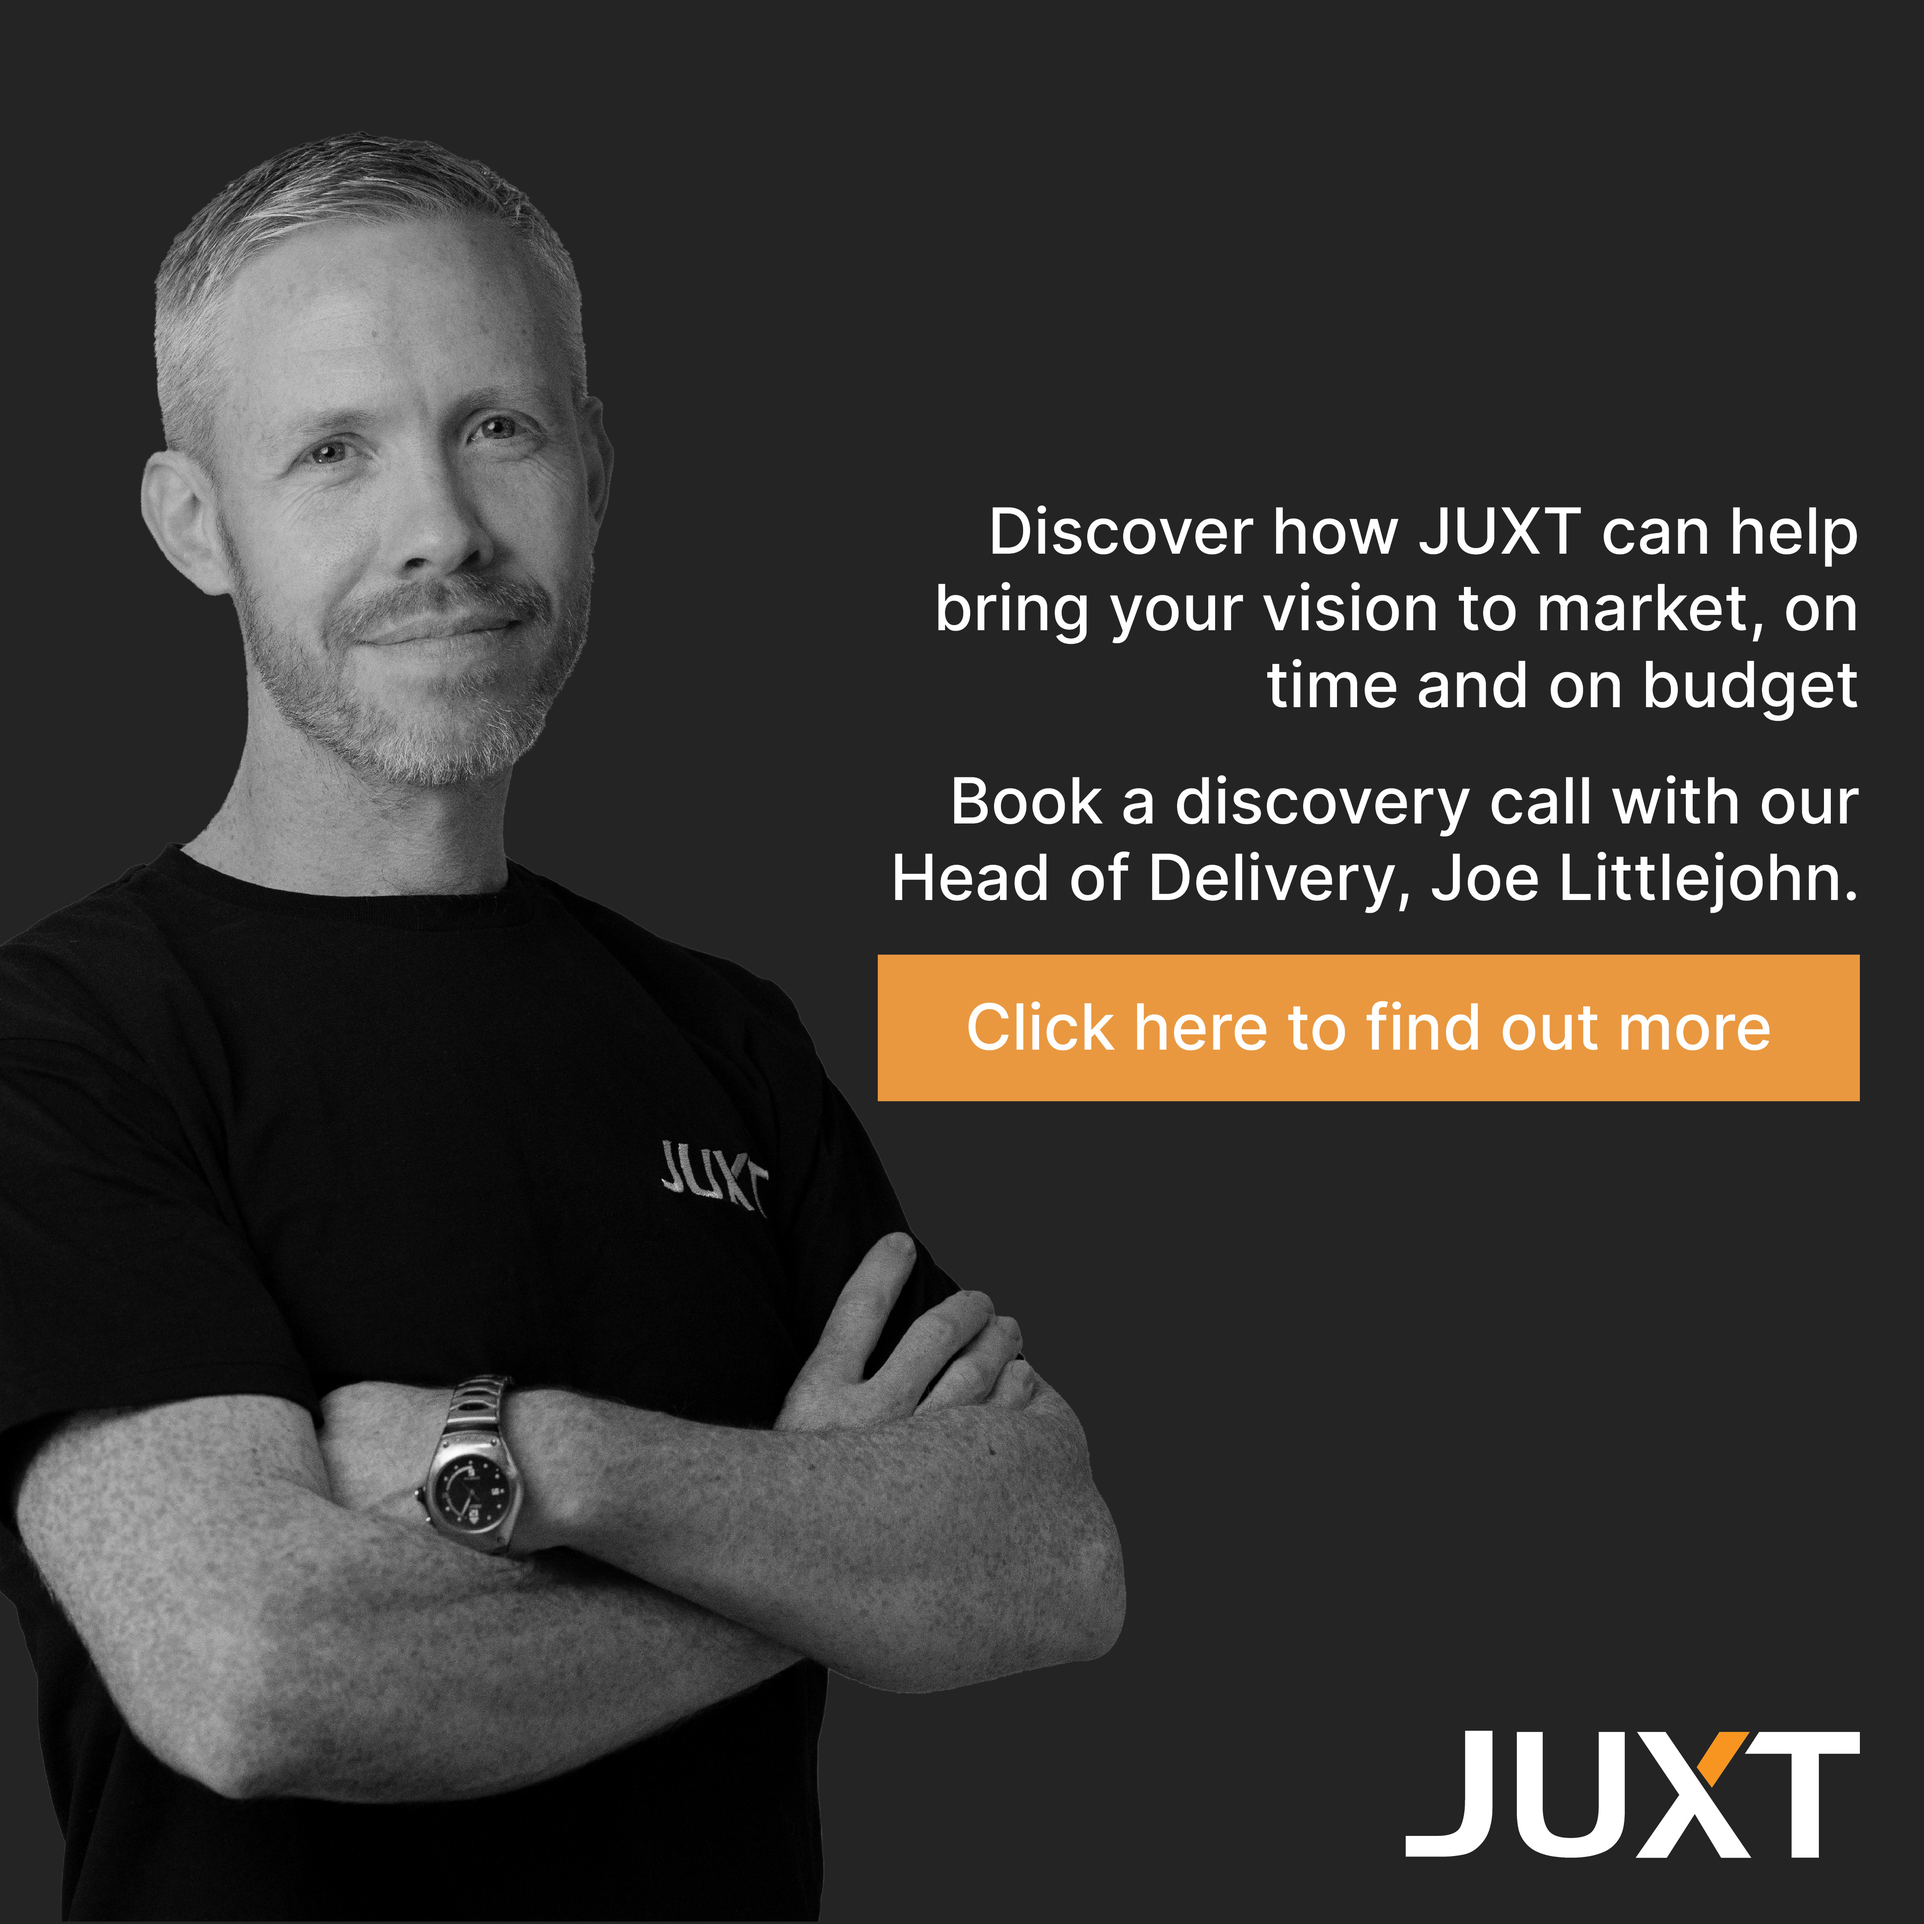
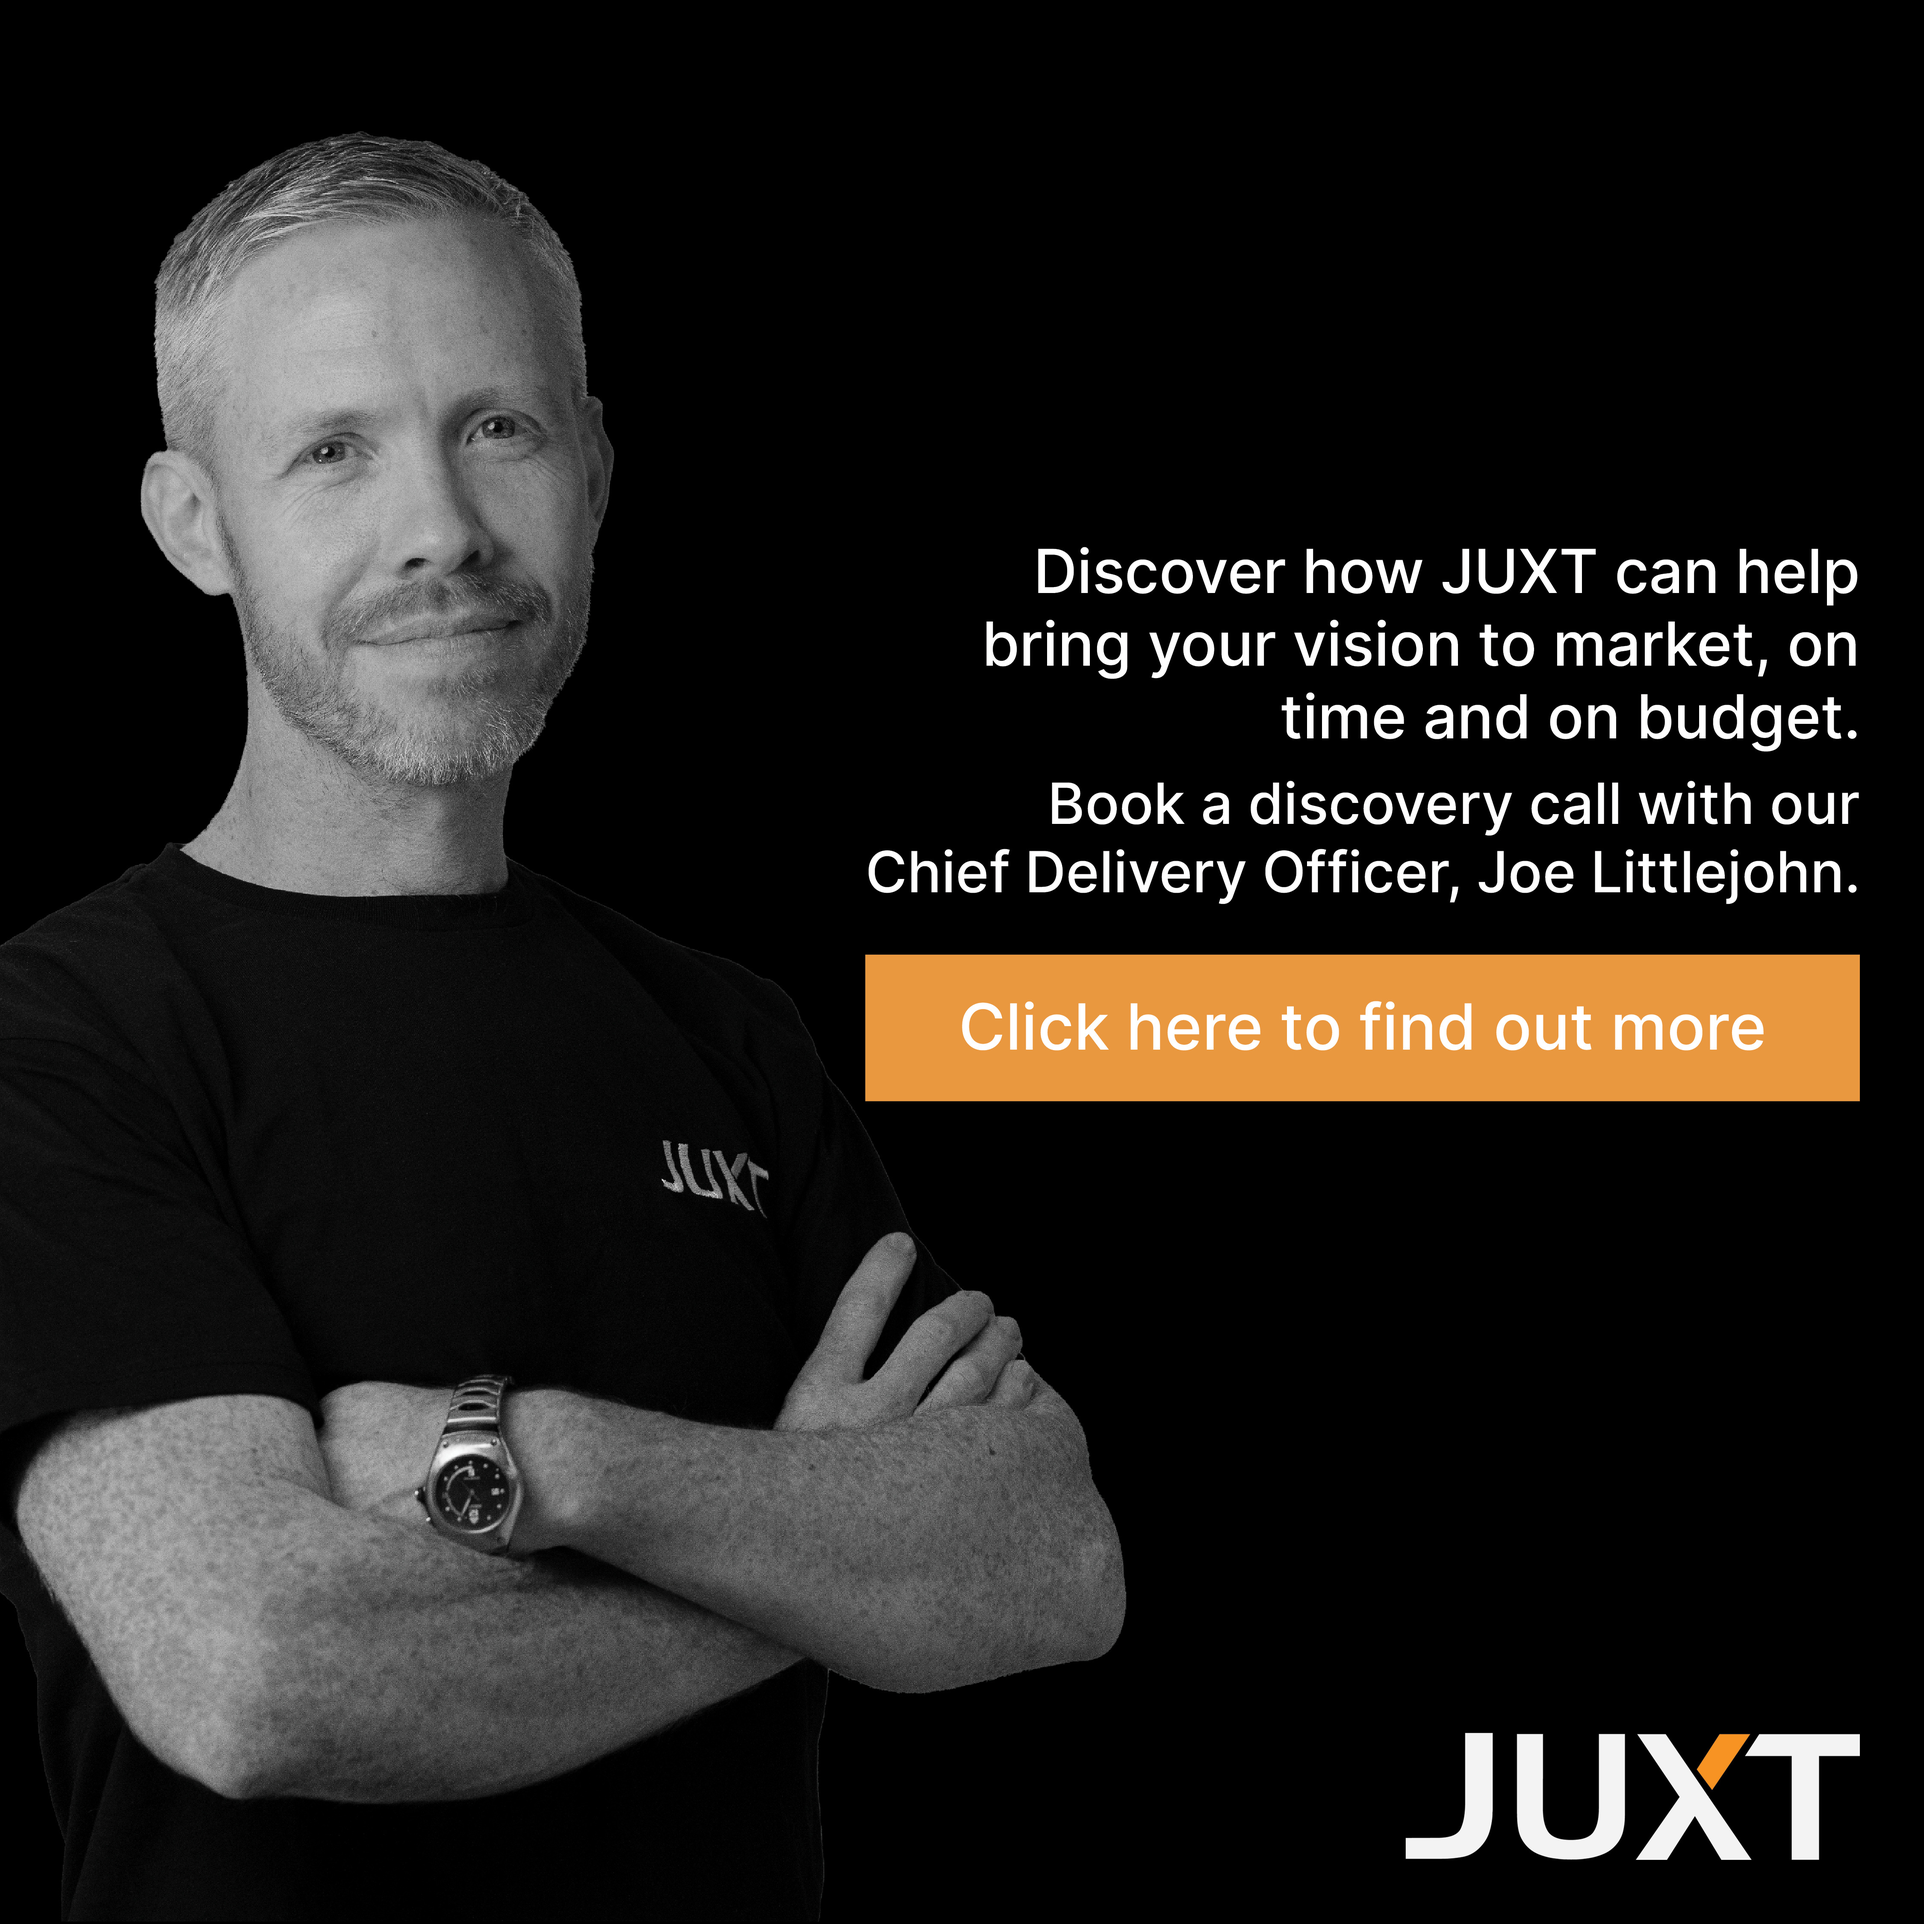
fix: joe's job title on more pages

diff --git a/src/components/ContactUs.tsx b/src/components/ContactUs.tsx
@@ -183,7 +183,7 @@ export default function ContactUs() {
                         <div className='text-medium md:text-2xl text-white leading-snug'>
                             Book a
                             <span className='text-juxt'> 30-minute discovery call </span>
-                            with our Head of Delivery, and discover how JUXT can help bring
+                            with our Chief Delivery Officer, and discover how JUXT can help bring
                             your vision to market, on time and on budget.
                         </div>
                     </div>
@@ -191,14 +191,14 @@ export default function ContactUs() {
                     <div className='flex items-center lg:items-stretch flex-col gap-4'>
                         <img src={joe.src} alt='Joe' width='150' />
                         <div className='text-sm text-left font-light text-juxt'>
-                            Joe Littlejohn <br /> JUXT Head of Delivery
+                            Joe Littlejohn <br /> JUXT Chief Delivery Officer
                         </div>
                     </div>
                 </div>
                 <div className='flex flex-col-reverse lg:flex-row bg-zinc-800 gap-16'>
                     <div className='flex flex-col gap-10 text-left lg:w-1/2'>
                         <div className='text-lg text-white md-text-3xl font-light leading-snug'>
-                            Our Head of Delivery, Joe Littlejohn, has worked in software
+                            Our Chief Delivery Officer, Joe Littlejohn, has worked in software
                             development and technical advisory roles for two decades, shipping
                             systems at scale for companies ranging from global banks to
                             early-stage startups.

diff --git a/src/pages/blog/juxtcast-horizon.md b/src/pages/blog/juxtcast-horizon.md
@@ -19,7 +19,7 @@ Last Friday, on January 19th, we recorded a fresh episode of our JUXT Cast, divi
 
 While the media rightly focuses on the management and political corruption aspects of the scandal, our discussion brought attention to the crucial lessons applicable to everyone in today's tech-centric world.
 
-Joined by our JUXT team members Joe Littlejohn, Head of Delivery, and Alex Davis, Senior Software Engineer, we were fortunate to have Andras Gerlits from http://omniledger.io/ as our guest, adding an external perspective to the conversation. Beyond the headlines, this episode exposes the intricate challenges in managing and securing complex IT systems, providing a more detailed understanding of the Horizon scandal.
+Joined by our JUXT team members Joe Littlejohn, Chief Delivery Officer, and Alex Davis, Senior Software Engineer, we were fortunate to have Andras Gerlits from http://omniledger.io/ as our guest, adding an external perspective to the conversation. Beyond the headlines, this episode exposes the intricate challenges in managing and securing complex IT systems, providing a more detailed understanding of the Horizon scandal.
 
 While acknowledging the significance of addressing management and political corruption, this episode:
 

diff --git a/src/pages/blog/promise-theory-with-mark-burgess.md b/src/pages/blog/promise-theory-with-mark-burgess.md
@@ -12,7 +12,7 @@ tags:
   - 'podcast'
 ---
 
-In this podcast episode, JUXT Head of Delivery Joe Littlejohn, XTDB Head of Product Jeremy Taylor, and I spoke with guest Mark Burgess, an independent researcher and writer.
+In this podcast episode, JUXT Chief Delivery Officer Joe Littlejohn, XTDB Head of Product Jeremy Taylor, and I spoke with guest Mark Burgess, an independent researcher and writer.
 
 <iframe class='aspect-video w-full' src="https://www.youtube.com/embed/s8VKdt0o7y0?si=LvB0yCwawCAYNw0a" title="YouTube video player" frameborder="0" allow="accelerometer; autoplay; clipboard-write; encrypted-media; gyroscope; picture-in-picture; web-share" referrerpolicy="strict-origin-when-cross-origin" allowfullscreen></iframe>
 
